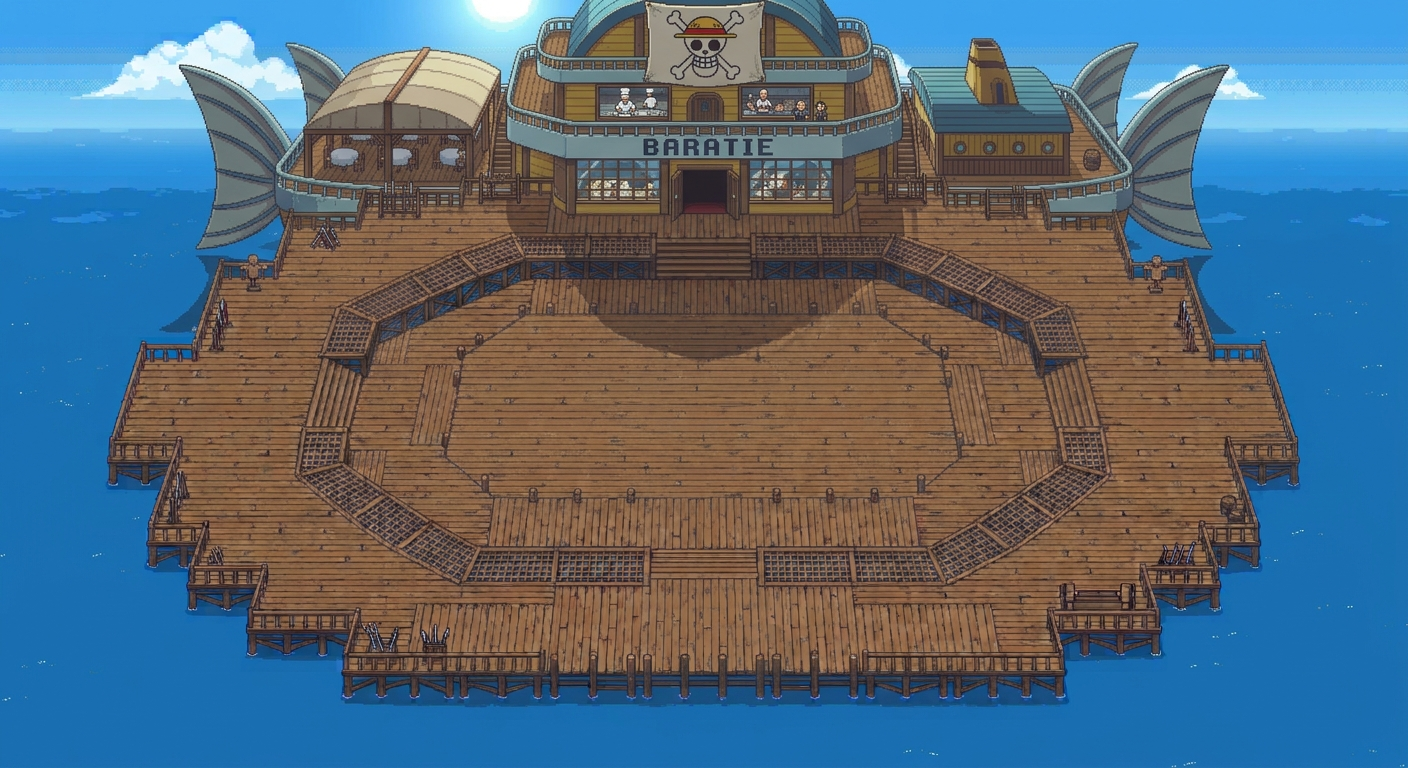
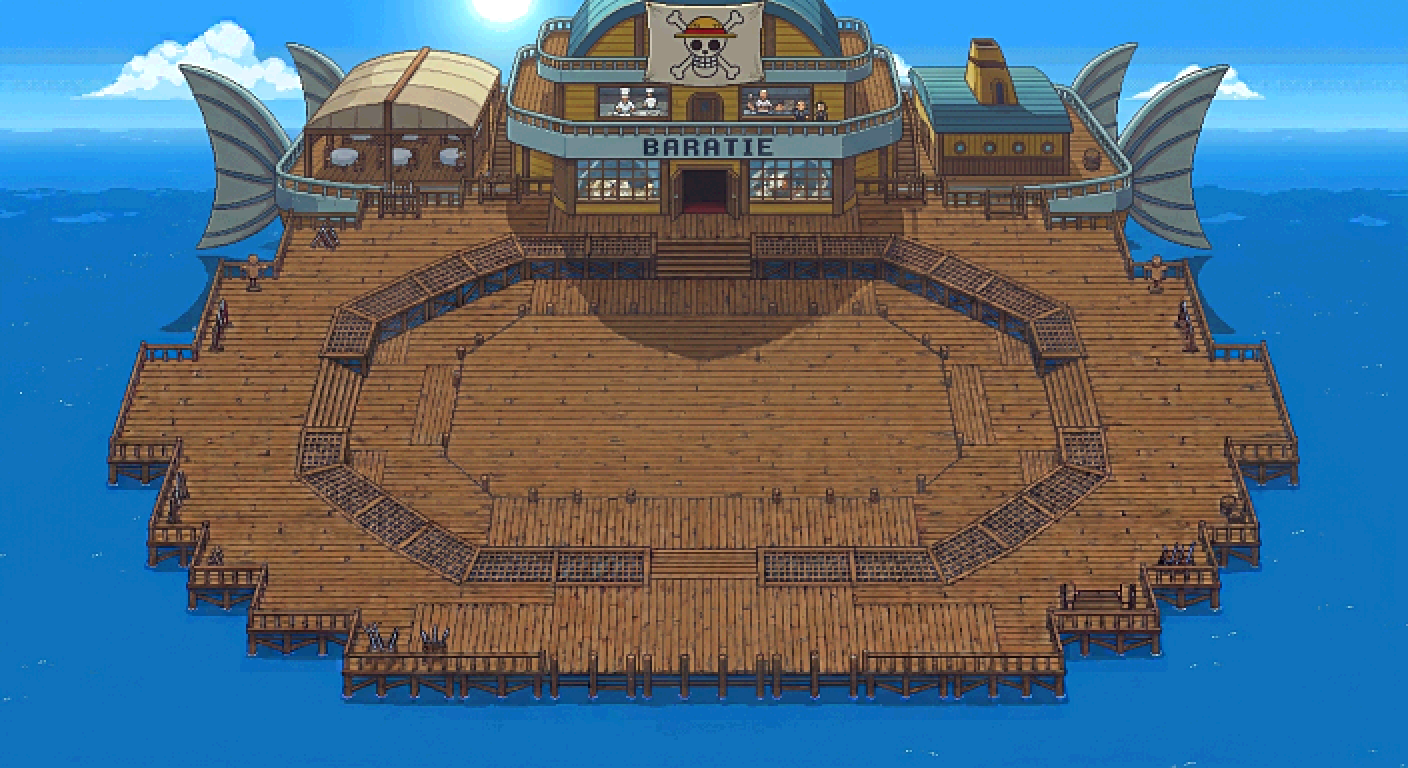
Mapas pixelados al estilo GBA para igualar a los sprites
- assets/maps/* regenerados desde los HD (source-art/maps/hd/) con source-art/pixelar_mapas.py:
  mitad de resolucion (BOX), enfoque suave, color de 15 bits, vuelta a 1408x768 por vecino mas cercano.
- El fondo se dibuja sin suavizado. Mismas dimensiones: colisiones intactas. Mapas ~4x mas ligeros.

Claude-Session: https://claude.ai/code/session_01HBg7BgCnS4DcWNNsmYkNU7

diff --git a/js/render.js b/js/render.js
@@ -28,9 +28,9 @@ function render() {
     // Map Background: imagen del mapa centrada en x, con su origen vertical en MAP_ORIGIN_Y
     const mapImg = IMG[selectedMap + 'Map'];
     if (assetsLoaded && mapImg && mapImg.complete && mapImg.width) {
-        ctx.imageSmoothingEnabled = true;
-        ctx.drawImage(mapImg, -mapImg.width * MAP_SCALE / 2, -MAP_ORIGIN_Y[selectedMap] * MAP_SCALE, mapImg.width * MAP_SCALE, mapImg.height * MAP_SCALE);
+        // Mapas pixelados (estilo GBA): se escalan sin suavizado para que el pixel se vea nítido como en los sprites
         ctx.imageSmoothingEnabled = false;
+        ctx.drawImage(mapImg, -mapImg.width * MAP_SCALE / 2, -MAP_ORIGIN_Y[selectedMap] * MAP_SCALE, mapImg.width * MAP_SCALE, mapImg.height * MAP_SCALE);
     } else {
         const fallback = { baratie: '#0284c7', alabasta: '#d4a373', skypiea: '#bfe3f5', thrillerbark: '#2e1f47' };
         ctx.fillStyle = fallback[selectedMap] || '#0284c7';

diff --git a/source-art/pixelar_mapas.py b/source-art/pixelar_mapas.py
@@ -1,0 +1,13 @@
+# Pixela un mapa HD al estilo GBA: reduce a la mitad (BOX), enfoca un poco, satura +12%,
+# pasa a color de 15 bits y vuelve a 1408x768 por vecino mas cercano.
+# Uso: python3 source-art/pixelar_mapas.py source-art/maps/hd/<mapa>.png assets/maps/<mapa>.png 2 0
+import sys
+from PIL import Image, ImageEnhance, ImageFilter
+src,out,k,colors=sys.argv[1],sys.argv[2],int(sys.argv[3]),int(sys.argv[4])
+im=Image.open(src).convert('RGB'); W,H=im.size
+s=im.resize((W//k,H//k),Image.BOX)
+s=s.filter(ImageFilter.UnsharpMask(radius=1,percent=60,threshold=2))
+s=ImageEnhance.Color(s).enhance(1.12)
+q=s if colors==0 else s.quantize(colors=colors,method=Image.Quantize.MAXCOVERAGE,dither=Image.Dither.NONE).convert("RGB")
+q=q.point(lambda v:(v>>3)<<3|(v>>5))  # color de 15 bits como la GBA
+q.resize((W,H),Image.NEAREST).save(out,optimize=True)

diff --git a/GAME_DESIGN.md b/GAME_DESIGN.md
@@ -34,7 +34,8 @@ Es un juego estático sin build. Se abre con `index.html` desde cualquier servid
 - Las habilidades tienen que ser fieles al manga y al anime.
 
 ## Mapas
-- Tienen que ser lugares reconocibles de One Piece. Todas las imágenes miden 1408x768 y se dibujan con `MAP_SCALE` 2.
+- Tienen que ser lugares reconocibles de One Piece. Todas las imágenes miden 1408x768 y se dibujan con `MAP_SCALE` 2, sin suavizado.
+- Estilo GBA: los mapas de `assets/maps/` se generan desde los originales HD (`source-art/maps/hd/`) con `source-art/pixelar_mapas.py` (mitad de resolución, color de 15 bits). Si cambias un mapa, guarda el HD ahí y vuelve a pasar el script.
 - Solo hay colisiones en el borde de la arena, sin obstáculos en el interior (decisión de Pablo del 31-10-2026). Las cápsulas de obstáculos detectadas están en el commit `a863eaa`, y `MAP_OBSTACLES` sigue disponible pero vacío.
 - **Baratie**: borde detectado por color (madera frente a agua). Jefe Don Krieg (9000 PV) y minijefe el Capitán Morgan (min 3).
 - **Alabasta**, **Skypiea** y **Thriller Bark** comparten el trazado de plaza de palacio (`PALACE_ARENA_POLY`, sacado de la línea verde de Alabasta).
